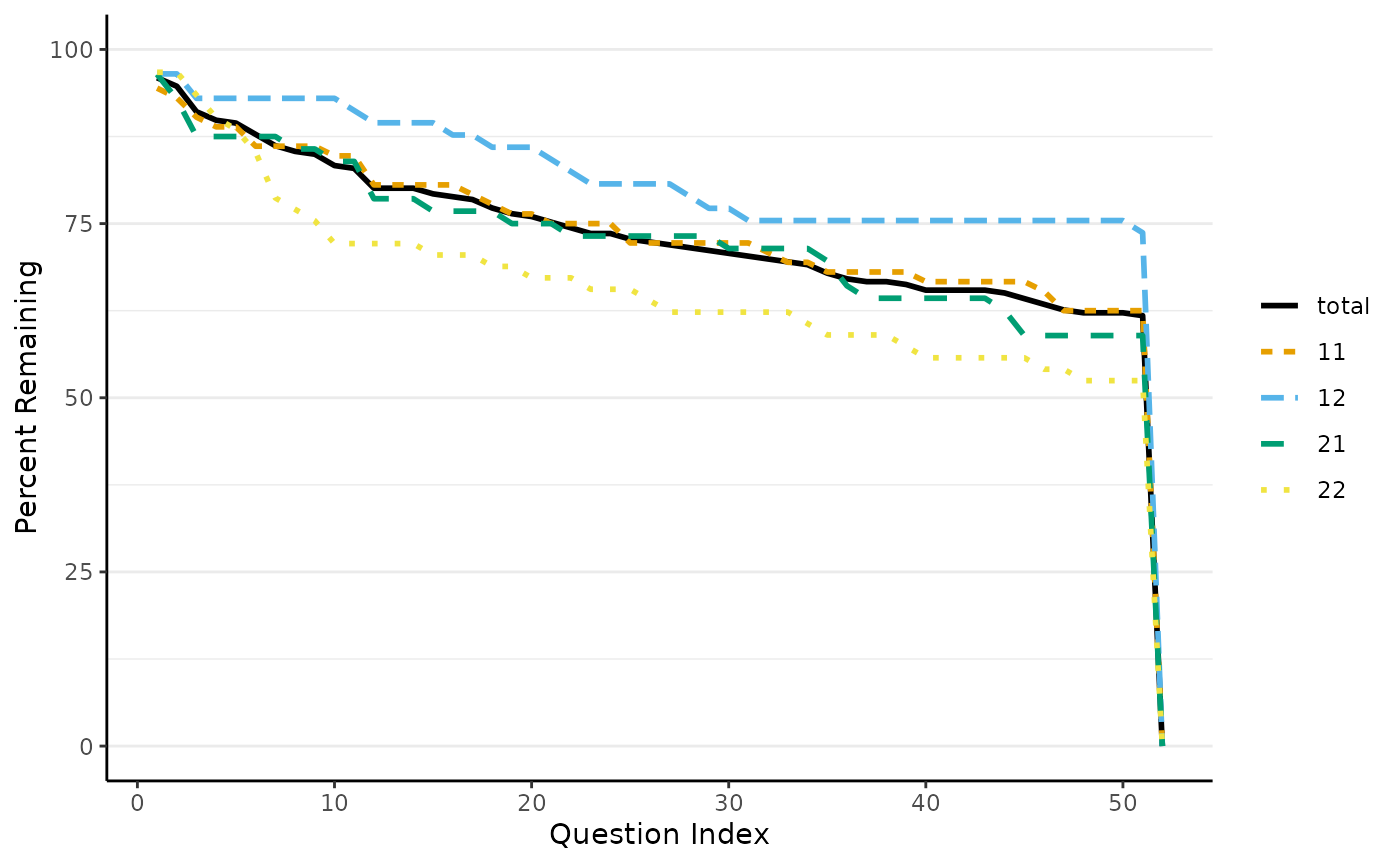
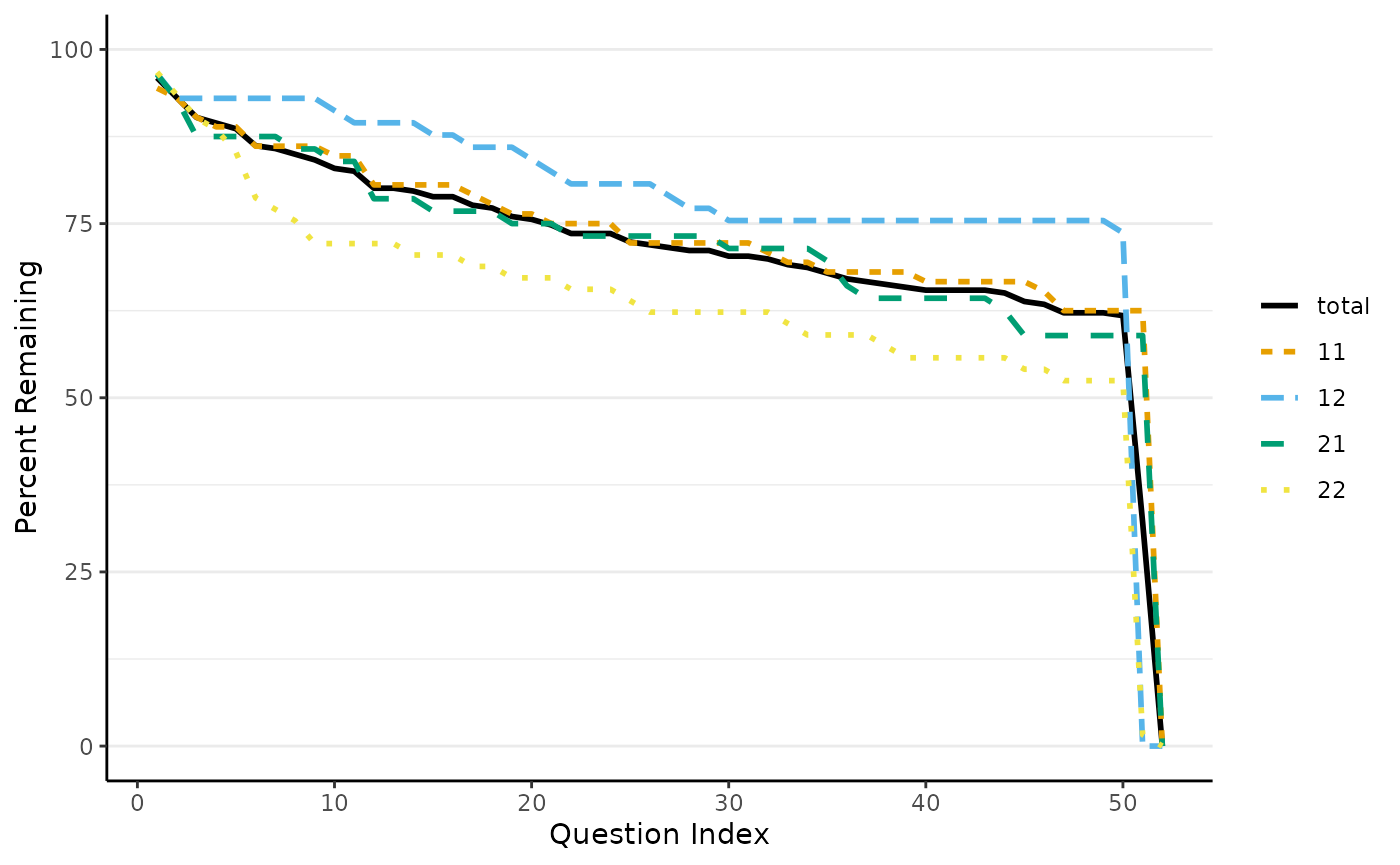
Deploying to gh-pages from @ iscience-kn/dropR@464c5e77a3d6918c927842993c2d18d714623fe7 🚀

diff --git a/articles/tests.html b/articles/tests.html
@@ -104,14 +104,14 @@ and dropout overview table at the selected question.</p>
 <span><span class="co">#&gt;  replicates)</span></span>
 <span><span class="co">#&gt; </span></span>
 <span><span class="co">#&gt; data:  test_table</span></span>
-<span><span class="co">#&gt; X-squared = 1.9315, df = NA, p-value = 0.2214</span></span>
+<span><span class="co">#&gt; X-squared = 1.1979, df = NA, p-value = 0.3338</span></span>
 <span><span class="co">#&gt; </span></span>
 <span><span class="co">#&gt; </span></span>
 <span><span class="co">#&gt; $`Dropout at question 15`</span></span>
 <span><span class="co">#&gt;           participants</span></span>
 <span><span class="co">#&gt; conditions dropout remaining</span></span>
 <span><span class="co">#&gt;         11      14        58</span></span>
-<span><span class="co">#&gt;         12       6        51</span></span></code></pre></div>
+<span><span class="co">#&gt;         12       7        50</span></span></code></pre></div>
 </div>
 <div class="section level3">
 <h3 id="kaplan-meier-estimation">Kaplan-Meier Estimation<a class="anchor" aria-label="anchor" href="#kaplan-meier-estimation"></a>
@@ -126,10 +126,10 @@ and dropout overview table at the selected question.</p>
 <span><span class="co">#&gt;   x         y      uppr       lwr condition</span></span>
 <span><span class="co">#&gt; 1 1 0.9593496 0.9843472 0.9349868     total</span></span>
 <span><span class="co">#&gt; 2 2 0.9593496 0.9843472 0.9349868     total</span></span>
-<span><span class="co">#&gt; 3 2 0.9471545 0.9755285 0.9196058     total</span></span>
-<span><span class="co">#&gt; 4 3 0.9471545 0.9755285 0.9196058     total</span></span>
-<span><span class="co">#&gt; 5 3 0.9105691 0.9469365 0.8755984     total</span></span>
-<span><span class="co">#&gt; 6 4 0.9105691 0.9469365 0.8755984     total</span></span></code></pre></div>
+<span><span class="co">#&gt; 3 2 0.9308943 0.9631348 0.8997330     total</span></span>
+<span><span class="co">#&gt; 4 3 0.9308943 0.9631348 0.8997330     total</span></span>
+<span><span class="co">#&gt; 5 3 0.9024390 0.9402903 0.8661115     total</span></span>
+<span><span class="co">#&gt; 6 4 0.9024390 0.9402903 0.8661115     total</span></span></code></pre></div>
 <div class="sourceCode" id="cb4"><pre class="downlit sourceCode r">
 <code class="sourceCode R"><span></span>
 <span><span class="fu"><a href="https://rdrr.io/r/utils/head.html" class="external-link">head</a></span><span class="op">(</span><span class="va">kpm</span><span class="op">$</span><span class="va">d</span><span class="op">)</span></span>
@@ -163,11 +163,11 @@ and dropout overview table at the selected question.</p>
 <span><span class="co">#&gt; 6    NA    NA    NA    NA    NA    NA    NA    NA    NA    NA    NA  &lt;NA&gt;    NA</span></span>
 <span><span class="co">#&gt;   vi_47 vi_48 vi_49 vi_50 vi_51 vi_52 experimental_condition do_idx surv</span></span>
 <span><span class="co">#&gt; 1     1     1     1     1     1     1                     11     52  52+</span></span>
-<span><span class="co">#&gt; 2    NA    NA    NA    NA    NA  &lt;NA&gt;                     22      6    6</span></span>
-<span><span class="co">#&gt; 3     1     1     1     1     1     1                     22     52  52+</span></span>
+<span><span class="co">#&gt; 2    NA    NA    NA    NA    NA  &lt;NA&gt;                     22      5    5</span></span>
+<span><span class="co">#&gt; 3     1     1     1     1     1     1                     22     51   51</span></span>
 <span><span class="co">#&gt; 4     1     1     1     1     1     1                     11     52  52+</span></span>
-<span><span class="co">#&gt; 5     1     1     1     1     1     1                     12     52  52+</span></span>
-<span><span class="co">#&gt; 6    NA    NA    NA    NA    NA  &lt;NA&gt;                     22     27   27</span></span></code></pre></div>
+<span><span class="co">#&gt; 5     1     1     1     1     1     1                     12     51   51</span></span>
+<span><span class="co">#&gt; 6    NA    NA    NA    NA    NA  &lt;NA&gt;                     22     26   26</span></span></code></pre></div>
 <div class="sourceCode" id="cb5"><pre class="downlit sourceCode r">
 <code class="sourceCode R"><span></span>
 <span><span class="va">kpm</span><span class="op">$</span><span class="va">model_fit</span></span>

diff --git a/articles/interactive.html b/articles/interactive.html
@@ -146,42 +146,42 @@ item.</p>
 <tr class="even">
 <td align="right">2</td>
 <td align="left">total</td>
-<td align="right">13</td>
+<td align="right">17</td>
 <td align="right">246</td>
-<td align="right">233</td>
-<td align="right">0.9471545</td>
+<td align="right">229</td>
+<td align="right">0.9308943</td>
 </tr>
 <tr class="odd">
 <td align="right">3</td>
 <td align="left">total</td>
-<td align="right">22</td>
+<td align="right">24</td>
 <td align="right">246</td>
-<td align="right">224</td>
-<td align="right">0.9105691</td>
+<td align="right">222</td>
+<td align="right">0.9024390</td>
 </tr>
 <tr class="even">
 <td align="right">4</td>
-<td align="left">total</td>
-<td align="right">25</td>
-<td align="right">246</td>
-<td align="right">221</td>
-<td align="right">0.8983740</td>
-</tr>
-<tr class="odd">
-<td align="right">5</td>
 <td align="left">total</td>
 <td align="right">26</td>
 <td align="right">246</td>
 <td align="right">220</td>
 <td align="right">0.8943089</td>
 </tr>
+<tr class="odd">
+<td align="right">5</td>
+<td align="left">total</td>
+<td align="right">28</td>
+<td align="right">246</td>
+<td align="right">218</td>
+<td align="right">0.8861789</td>
+</tr>
 <tr class="even">
 <td align="right">6</td>
 <td align="left">total</td>
-<td align="right">30</td>
+<td align="right">34</td>
 <td align="right">246</td>
-<td align="right">216</td>
-<td align="right">0.8780488</td>
+<td align="right">212</td>
+<td align="right">0.8617886</td>
 </tr>
 </tbody>
 </table>
